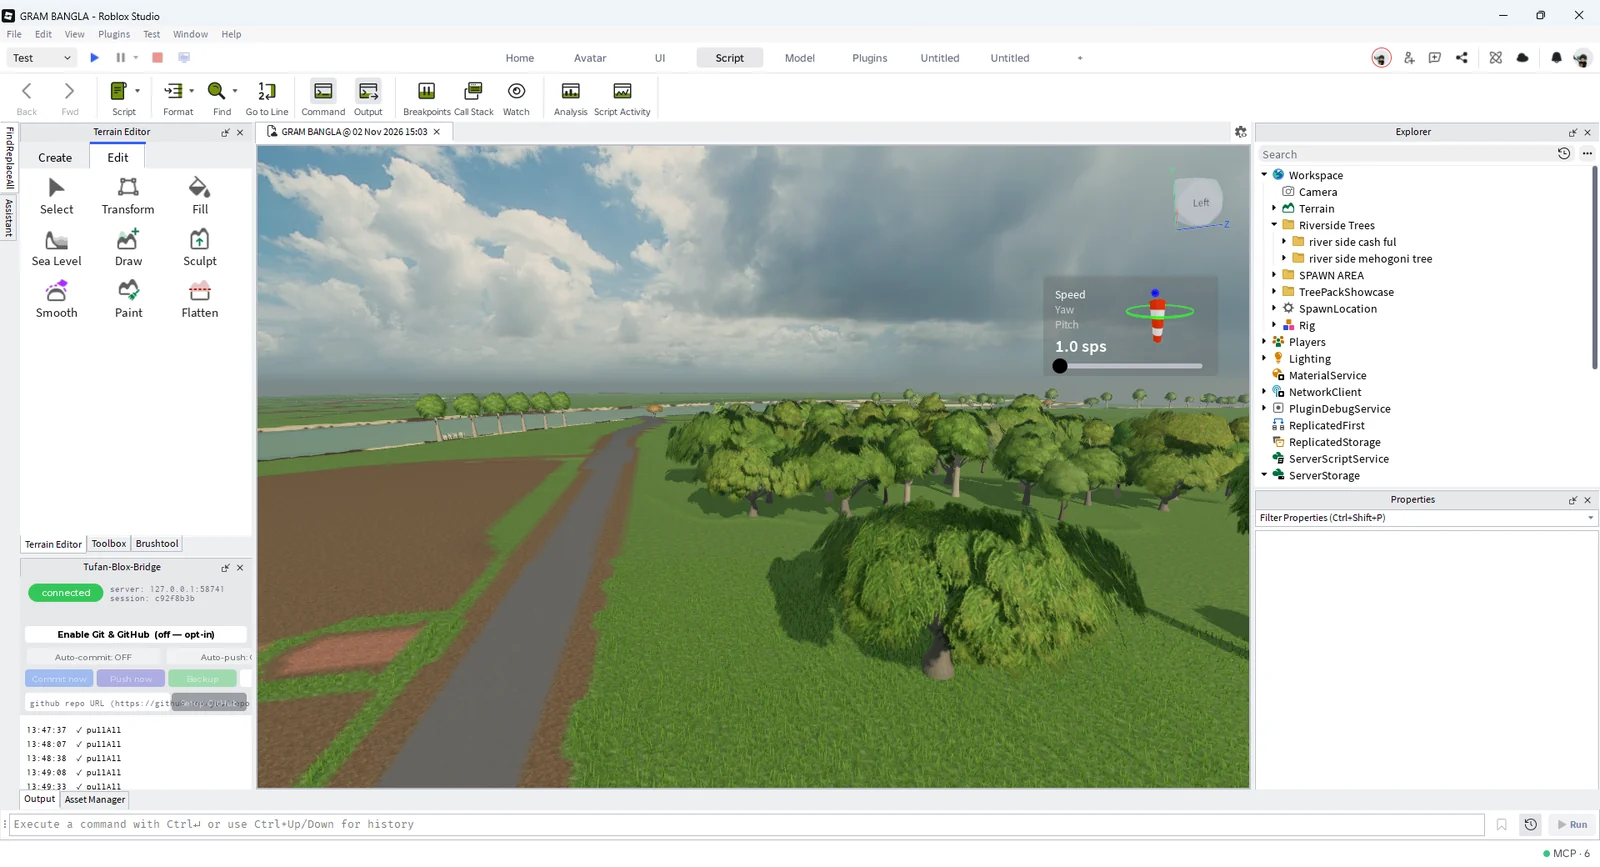
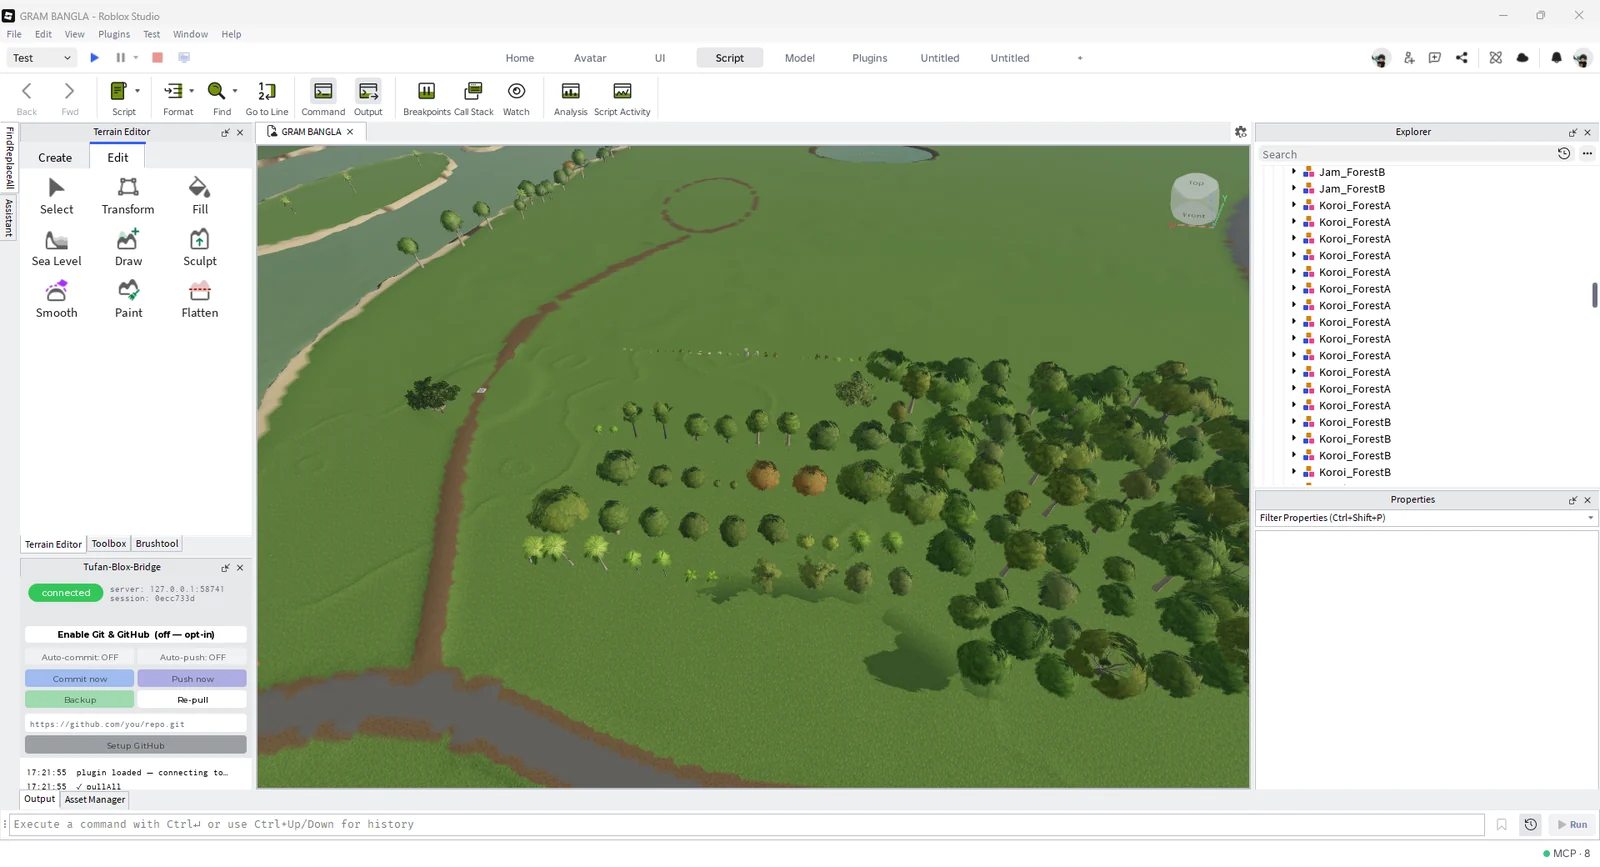
Recapture the Studio screenshot with the fixed plugin panel
The main image on the Roblox MCP page and home page still showed the old
panel overlap. Versions the URL because images are cached for 30 days.

diff --git a/src/lib/bloxBridge.ts b/src/lib/bloxBridge.ts
@@ -23,7 +23,7 @@ export const BLOX_BRIDGE = {
       height: 282,
     },
     studio: {
-      src: "/images/roblox-mcp/studio-plugin.webp",
+      src: "/images/roblox-mcp/studio-plugin.webp?v=2",
       alt: "Roblox Studio with the Tufan-Blox-Bridge plugin panel open beside a place",
       width: 1600,
       height: 867,
